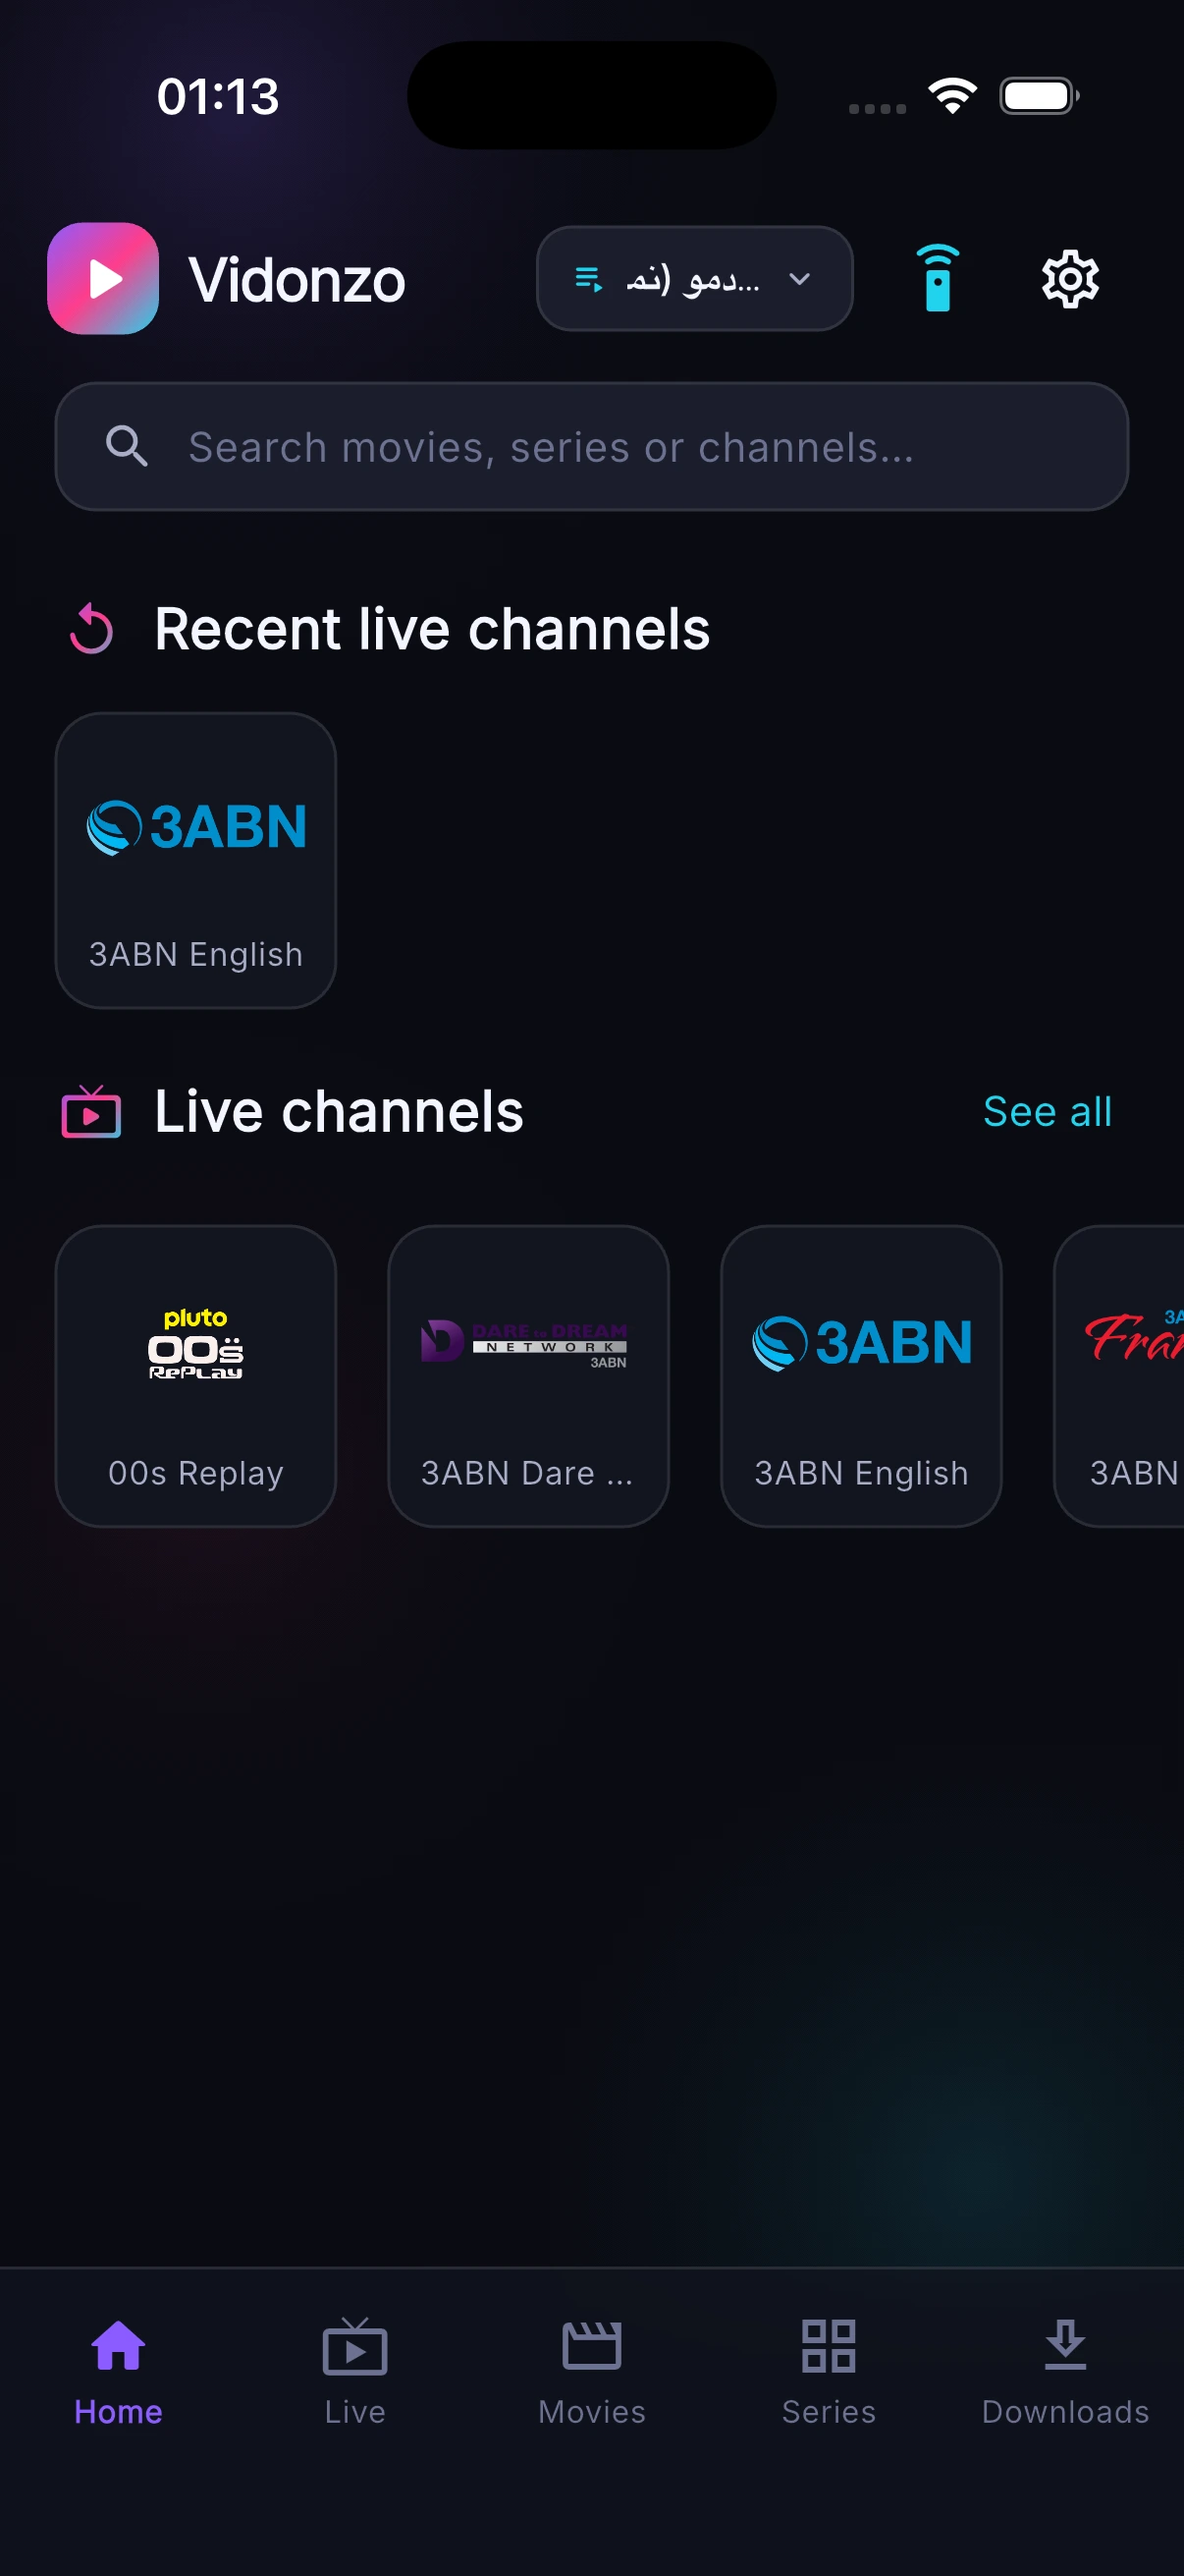
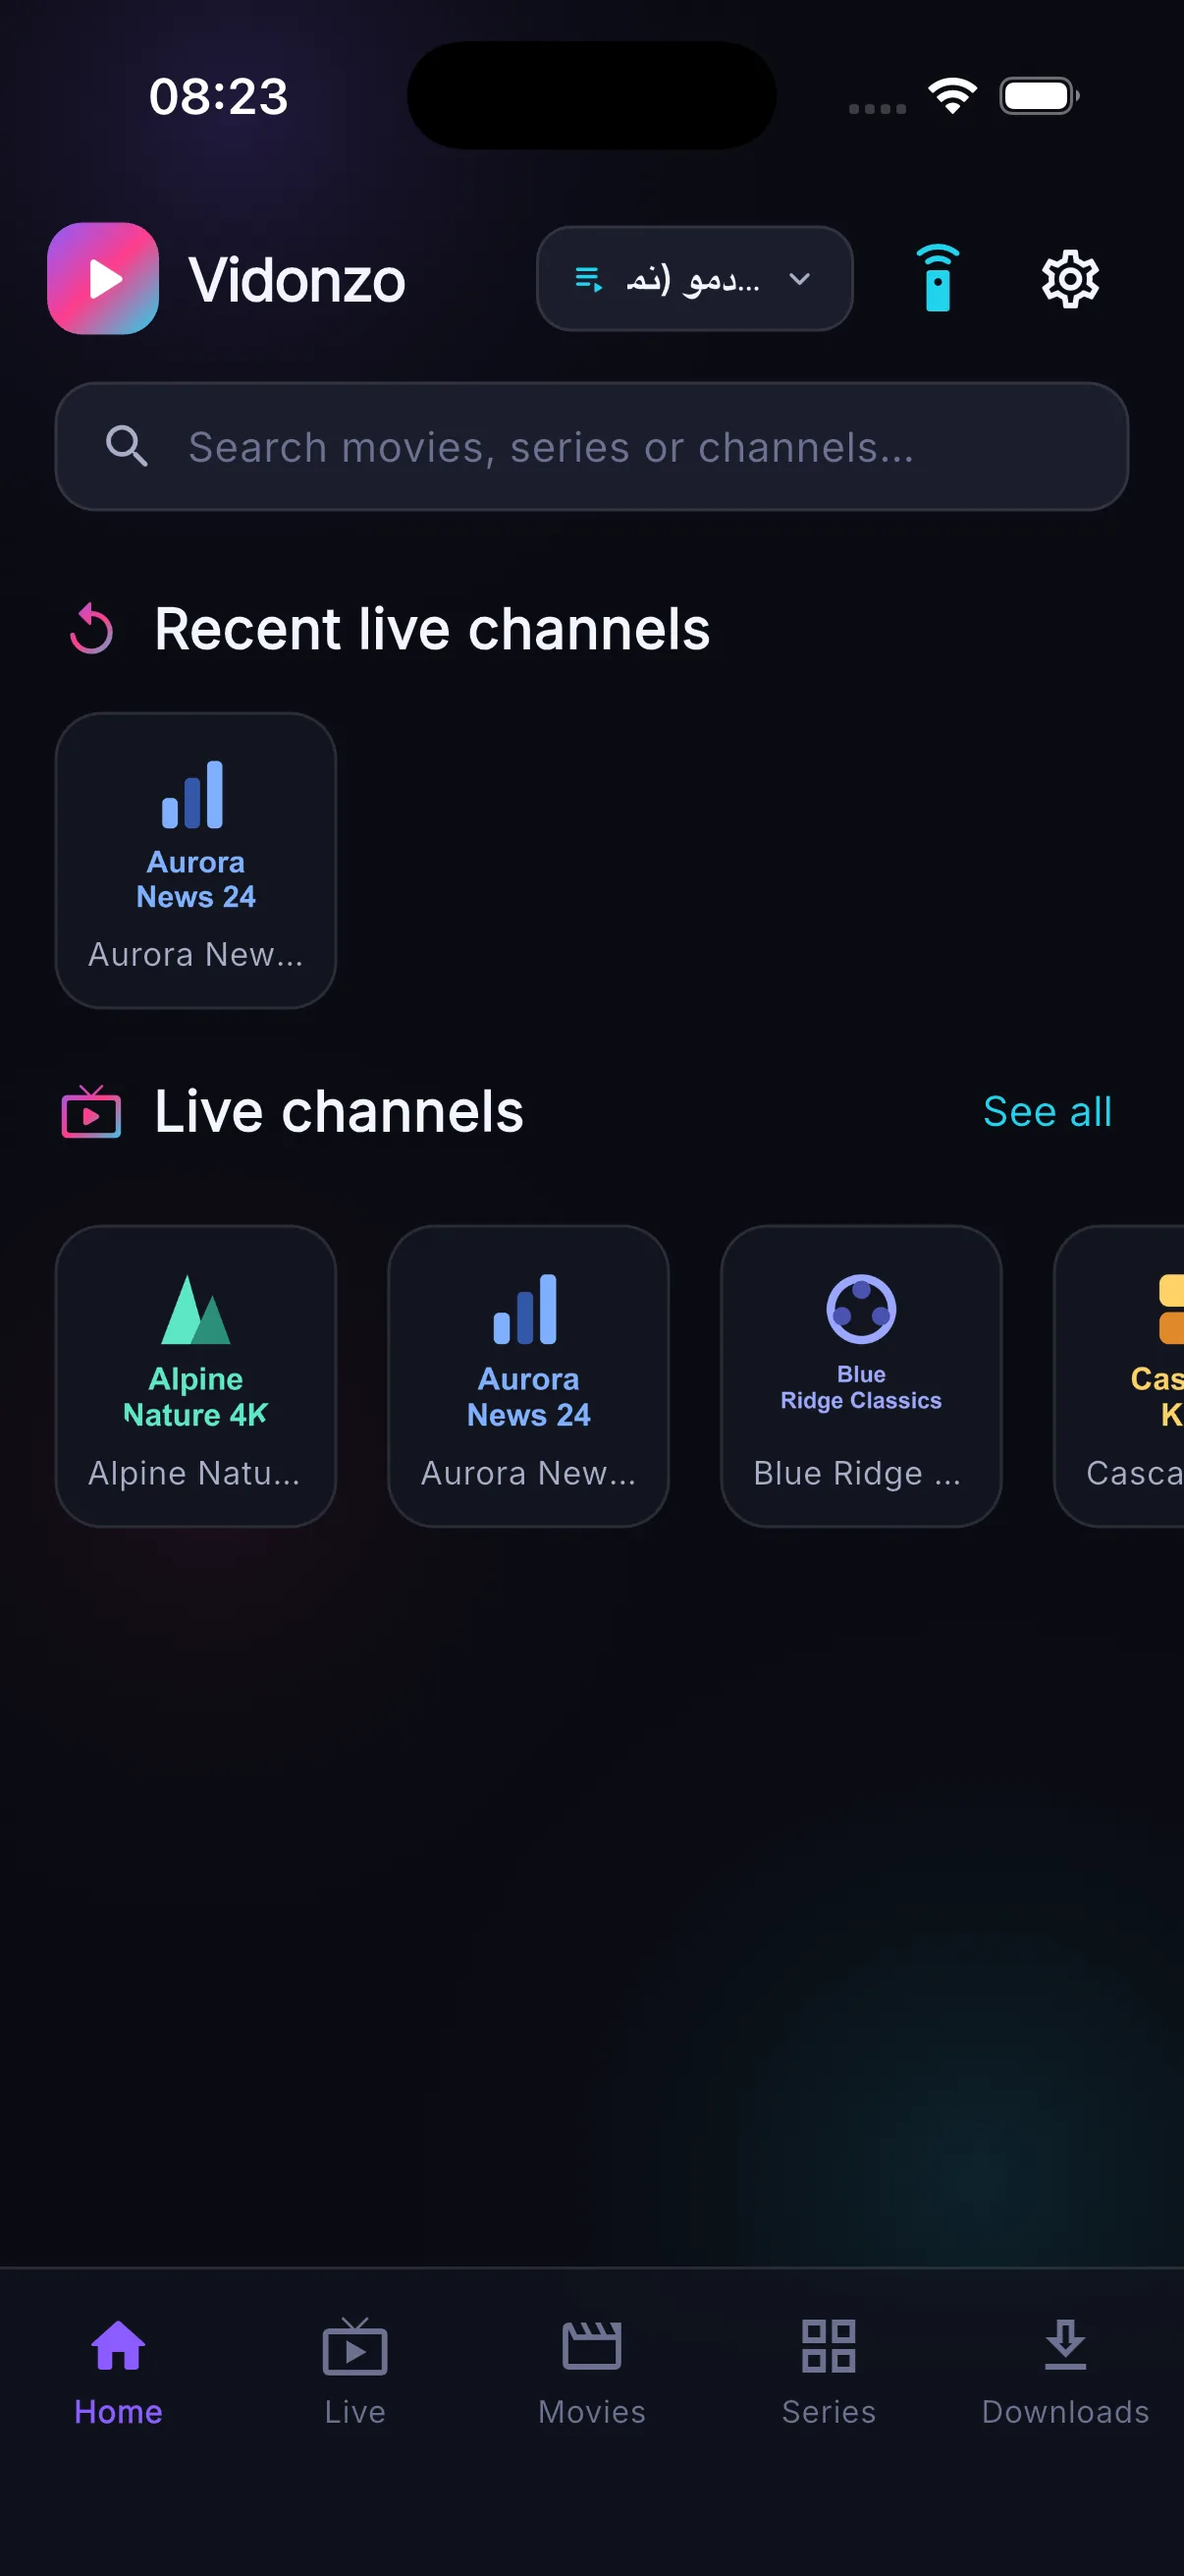
Put invented channels in the app screenshots (#28)
Three of the five app screenshots were captured against a real public
IPTV playlist, so the homepage hero — English and Persian, on all twenty
locales — carried Pluto TV's "00s Replay" and seven 3ABN channels, each
with its own logo and name. Brand rule 2 says none of that belongs in a
screenshot, and it is someone else's trademark on our marketing pages.

Re-captured rather than retouched: these stay honest captures of the app
on an iPhone simulator, at the same 1206x2622 as before. What the app was
showing is now eighteen channels that do not exist, with logos drawn from
flat shapes and a system face.

That fixture is checked in, because the rule is easy to break by
accident: the quickest way to get a demo playlist on screen is to point
the app at a public one, and public playlists are full of real
broadcasters. Whoever re-captures a screen next should not have to invent
a catalogue, and should not reach for a real playlist because it was to
hand.

settings-en and language-fa had no branding and are untouched.

diff --git a/src/config/screenshots.ts b/src/config/screenshots.ts
@@ -10,6 +10,12 @@ import languageFa from '../assets/app/language-fa.webp';
 /**
  * Real captures from the app running on an iPhone simulator, not mockups.
  *
+ * The channels *inside* the captures are invented, though — names, logos and
+ * all. Brand rule 2 keeps other people's networks off our marketing pages, and
+ * the way that rule gets broken is by pointing the app at a real public
+ * playlist to get something on screen. `tool/screenshot-catalog/` is the
+ * playlist these were taken against, and how to re-capture one.
+ *
  * Persian has its own set because the app mirrors fully in right-to-left, and
  * showing a left-to-right capture on the Persian page would undersell the one
  * thing that page's readers most want to see. Arabic still gets the English

diff --git a/tool/screenshot-catalog/make-catalog.py b/tool/screenshot-catalog/make-catalog.py
@@ -1,0 +1,150 @@
+#!/usr/bin/env python3
+"""Draw a logo for each invented demo channel.
+
+Nothing here refers to a real broadcaster: the names, the marks and the colours
+are made up on purpose, so a marketing screenshot of the app carries no one
+else's trademark. Each mark is a flat geometric glyph plus a wordmark set in a
+system face — deliberately plain, so it reads as "a channel logo" at 100px
+without imitating any particular one.
+"""
+import os
+from PIL import Image, ImageDraw, ImageFont
+
+OUT = os.path.join(os.path.dirname(os.path.abspath(__file__)), "logos")
+S = 4                      # supersampling factor
+W = H = 256                # final logo size
+
+BOLD = "/System/Library/Fonts/Supplemental/Arial Bold.ttf"
+REG = "/System/Library/Fonts/Supplemental/Arial.ttf"
+
+# name, category, glyph, ink, accent
+CHANNELS = [
+    ("Alpine Nature 4K",   "Nature",      "peaks",  "#5ee7c4", "#2b8f78"),
+    ("Aurora News 24",     "News",        "bars",   "#7fb0ff", "#3358a8"),
+    ("Blue Ridge Classics","Classics",    "reel",   "#9aa7ff", "#4a52b0"),
+    ("Cascade Kids",       "Kids",        "blocks", "#ffd166", "#e08a2b"),
+    ("Delta Documentary",  "Documentary", "delta",  "#c9d4e3", "#5d6b7d"),
+    ("Echo Music Live",    "Music",       "wave",   "#ff8fd0", "#b0398c"),
+    ("Fjord Explorer",     "Travel",      "compass","#6fd7f0", "#2678a0"),
+    ("Golden Age Cinema",  "Movies",      "reel",   "#ffcf6b", "#a8761c"),
+    ("Harbor Sports Desk", "Sports",      "ring",   "#8ef08a", "#2f8a3c"),
+    ("Ivory Kitchen",      "Food",        "blocks", "#ffb08a", "#b55a34"),
+    ("Lumen Science",      "Science",     "atom",   "#8fe1ff", "#2f7fa8"),
+    ("Meridian World",     "News",        "globe",  "#a5b4c8", "#4a5a70"),
+    ("Nightfall Cinema",   "Movies",      "reel",   "#b79bff", "#5b3fa8"),
+    ("Orchard Lifestyle",  "Lifestyle",   "ring",   "#a8e6a3", "#3f8f52"),
+    ("Prairie Classics",   "Classics",    "peaks",  "#e0c9a6", "#8a6a3c"),
+    ("Quartz Tech Today",  "Science",     "atom",   "#9fe8d8", "#2c8877"),
+    ("Riverside Kids",     "Kids",        "blocks", "#7fd4ff", "#2b7fb0"),
+    ("Summit Sports",      "Sports",      "peaks",  "#ffe08a", "#b08a1c"),
+]
+
+
+def slug(name):
+    return name.lower().replace(" ", "-").replace("4k", "4k")
+
+
+def glyph(d, kind, box, ink, accent):
+    x, y, w, h = box
+    cx, cy = x + w / 2, y + h / 2
+    if kind == "peaks":
+        d.polygon([(x, y + h), (x + w * 0.38, y), (x + w * 0.66, y + h)], fill=ink)
+        d.polygon([(x + w * 0.42, y + h), (x + w * 0.74, y + h * 0.3),
+                   (x + w, y + h)], fill=accent)
+    elif kind == "bars":
+        for i, f in enumerate((0.45, 0.75, 1.0)):
+            bw = w / 4.4
+            bx = x + i * (w / 3)
+            d.rounded_rectangle([bx, y + h * (1 - f), bx + bw, y + h],
+                                radius=bw / 3, fill=ink if i % 2 == 0 else accent)
+    elif kind == "reel":
+        d.ellipse([x, y, x + w, y + h], outline=ink, width=int(w * 0.12))
+        r = w * 0.13
+        for dx, dy in ((0, -0.28), (0.28, 0.1), (-0.28, 0.1)):
+            d.ellipse([cx + dx * w - r, cy + dy * h - r,
+                       cx + dx * w + r, cy + dy * h + r], fill=accent)
+    elif kind == "blocks":
+        g = w * 0.08
+        s = (w - g) / 2
+        for i, (ux, uy) in enumerate(((0, 0), (1, 0), (0, 1), (1, 1))):
+            bx, by = x + ux * (s + g), y + uy * (s + g)
+            d.rounded_rectangle([bx, by, bx + s, by + s], radius=s * 0.28,
+                                fill=ink if i in (0, 3) else accent)
+    elif kind == "delta":
+        d.polygon([(cx, y), (x + w, y + h), (x, y + h)], outline=ink,
+                  width=int(w * 0.11))
+        d.polygon([(cx, y + h * 0.42), (x + w * 0.78, y + h), (x + w * 0.22, y + h)],
+                  fill=accent)
+    elif kind == "wave":
+        n = 5
+        for i in range(n):
+            f = (0.35, 0.7, 1.0, 0.6, 0.3)[i]
+            bw = w / (n * 1.7)
+            bx = x + i * (w / n)
+            d.rounded_rectangle([bx, cy - h * f / 2, bx + bw, cy + h * f / 2],
+                                radius=bw / 2, fill=ink if i % 2 == 0 else accent)
+    elif kind == "compass":
+        d.ellipse([x, y, x + w, y + h], outline=ink, width=int(w * 0.1))
+        d.polygon([(cx, y + h * 0.2), (cx + w * 0.16, cy), (cx, y + h * 0.8),
+                   (cx - w * 0.16, cy)], fill=accent)
+    elif kind == "ring":
+        d.ellipse([x, y, x + w, y + h], outline=ink, width=int(w * 0.14))
+        d.ellipse([cx - w * 0.16, cy - h * 0.16, cx + w * 0.16, cy + h * 0.16],
+                  fill=accent)
+    elif kind == "atom":
+        d.ellipse([x, cy - h * 0.22, x + w, cy + h * 0.22], outline=ink,
+                  width=int(w * 0.08))
+        d.ellipse([cx - w * 0.22, y, cx + w * 0.22, y + h], outline=accent,
+                  width=int(w * 0.08))
+        d.ellipse([cx - w * 0.1, cy - h * 0.1, cx + w * 0.1, cy + h * 0.1], fill=ink)
+    elif kind == "globe":
+        d.ellipse([x, y, x + w, y + h], outline=ink, width=int(w * 0.09))
+        d.ellipse([cx - w * 0.22, y, cx + w * 0.22, y + h], outline=accent,
+                  width=int(w * 0.07))
+        d.line([x + w * 0.06, cy, x + w * 0.94, cy], fill=accent, width=int(w * 0.07))
+
+
+def wordmark(d, name, ink):
+    """Two short lines of the invented name, centred under the glyph."""
+    words = name.split()
+    if len(words) > 2:
+        lines = [" ".join(words[:len(words) // 2]), " ".join(words[len(words) // 2:])]
+    else:
+        lines = words
+    size = int(46 * S)
+    while size > 8 * S:
+        f = ImageFont.truetype(BOLD, size)
+        if max(d.textlength(l, font=f) for l in lines) <= W * S * 0.94:
+            break
+        size -= 2
+    f = ImageFont.truetype(BOLD, size)
+    top = H * S * (0.60 if len(lines) > 1 else 0.66)
+    for i, l in enumerate(lines):
+        tw = d.textlength(l, font=f)
+        d.text(((W * S - tw) / 2, top + i * size * 1.15), l, font=f, fill=ink)
+
+
+def render(name, kind, ink, accent):
+    img = Image.new("RGBA", (W * S, H * S), (0, 0, 0, 0))
+    d = ImageDraw.Draw(img)
+    g = W * S * 0.40
+    glyph(d, kind, ((W * S - g) / 2, H * S * 0.10, g, g), ink, accent)
+    wordmark(d, name, ink)
+    img = img.resize((W, H), Image.LANCZOS)
+    img.save(os.path.join(OUT, slug(name) + ".png"))
+
+
+if __name__ == "__main__":
+    os.makedirs(OUT, exist_ok=True)
+    for name, cat, kind, ink, accent in CHANNELS:
+        render(name, kind, ink, accent)
+    base = "http://localhost:8787"
+    lines = ["#EXTM3U"]
+    for name, cat, _, _, _ in CHANNELS:
+        lines.append(
+            f'#EXTINF:-1 tvg-id="{slug(name)}" tvg-name="{name}" '
+            f'tvg-logo="{base}/logos/{slug(name)}.png" group-title="{cat}",{name}'
+        )
+        lines.append(f"{base}/streams/{slug(name)}.m3u8")
+    open(os.path.join(os.path.dirname(OUT), "demo.m3u"), "w").write("\n".join(lines) + "\n")
+    print(f"{len(CHANNELS)} channels")

diff --git a/tool/screenshot-catalog/README.md b/tool/screenshot-catalog/README.md
@@ -1,0 +1,53 @@
+# The invented channel catalogue behind the app screenshots
+
+The app screenshots in `src/assets/app/` are real captures from the app running
+on an iPhone simulator. What the app was *showing* when they were taken is this
+directory: eighteen channels that do not exist, with logos drawn by
+`make-catalog.py` from flat geometric shapes and a system typeface.
+
+That is the whole point. Brand rule 2 in `CLAUDE.md` — no channel names, no
+network logos, no league or broadcaster branding in screenshots — is very easy
+to break by accident, because the obvious way to get a demo playlist is to
+point the app at a public one, and public playlists are full of real
+broadcasters. Screenshots taken that way put someone else's trademarks on our
+marketing pages. Keeping the fixture in the repo means the next person to
+re-capture a screen does not have to invent one, and does not reach for a real
+playlist because it was the quickest thing to hand.
+
+Nothing here is shipped, imported, or wired into an npm script. It is a fixture
+for a manual capture session, and `make-catalog.py` is the one-off that drew it
+(Python, unlike the rest of `tool/`, because it needs an image library).
+
+## Re-capturing a screenshot
+
+```bash
+python3 -m http.server 8787 --bind 127.0.0.1   # from THIS directory
+```
+
+Then build the app against it — the seed only applies to an install with no
+playlist yet, so uninstall first:
+
+```bash
+flutter build ios --simulator --debug \
+  --dart-define-from-file=dart_define.json \
+  --dart-define=DEMO_M3U=http://localhost:8787/demo.m3u
+```
+
+Capture with `xcrun simctl io <udid> screenshot shot.png` and encode to WebP at
+the size the existing assets use (1206×2622, quality 82).
+
+Two things to watch for, both learned the hard way:
+
+- **Do not open a channel before capturing a list.** The stream URLs in
+  `demo.m3u` resolve to nothing, so playback fails, and the app then marks the
+  channel unavailable and draws a "recently unavailable" banner over the list.
+  Capture the list first. Opening one channel *is* how you get an entry in the
+  home screen's "recent live channels" row — do that after, and relaunch the
+  app to leave the player.
+- **A language screenshot needs a fresh install**, not a switch in Settings:
+  the first-run language gate is the screen worth showing.
+
+To change the catalogue, edit the `CHANNELS` table in `make-catalog.py` and
+re-run it — it rewrites `demo.m3u` and `logos/` together, so the two cannot
+drift apart. Keep every name invented. If a name sounds like it could be a real
+channel somewhere, it is the wrong name.
